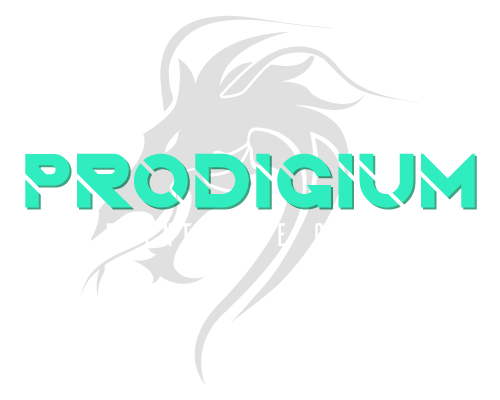
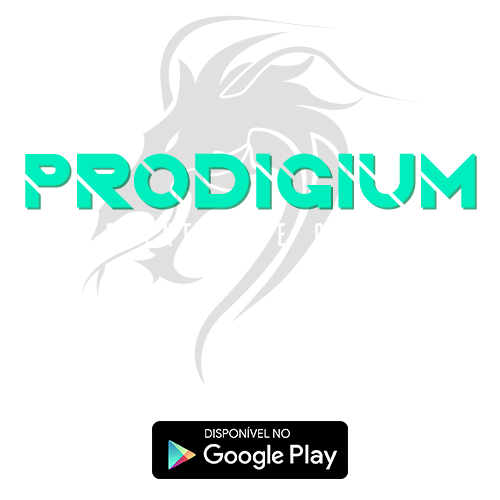
Botão google play na home

Changed region(s): [[0.03, 0.03, 0.96, 0.96], [0.18, 0.66, 0.21, 0.72], [0.21, 0.63, 0.24, 0.66]]

diff --git a/index.html b/index.html
@@ -1,5 +1,5 @@
 <!DOCTYPE html>
-<html lang="pt-BR" manifest="offline.appcache">
+<html lang="pt-BR" manifest="">
 
 <head>
   <meta charset="UTF-8">
@@ -71,9 +71,11 @@
 
     <!-- section 1 -->
     <div class="element-animation info-central">
+      <a href="https://play.google.com/store/apps/details?id=com.wpsgames.prodigium" target="_blank">
       <div data-tilt id="section1" class="container astro wow slideInUp cd-section  js-tilt" data-wow-duration="1500ms"><img
           src="img/astro.png" style="width: 100%;" alt="Prodigium"></div>
-    </div>
+      </div>
+    </a>
     <div class="container info-central logo wow slideInUp" data-wow-duration="1500ms"></div>
 
     <!-- botão para section 2 foguete -->

diff --git a/css/style.css b/css/style.css
@@ -122,9 +122,9 @@ button{
     top: 50%;
     left: 50%;
     width: 500px;
-    height: 400px;
+    height: 500px;
     margin-left: -250px;
-    margin-top: -200px;
+    margin-top: -250px;
     text-align: center;
   /*background-image: url('../img/astro.png');*/
 }
